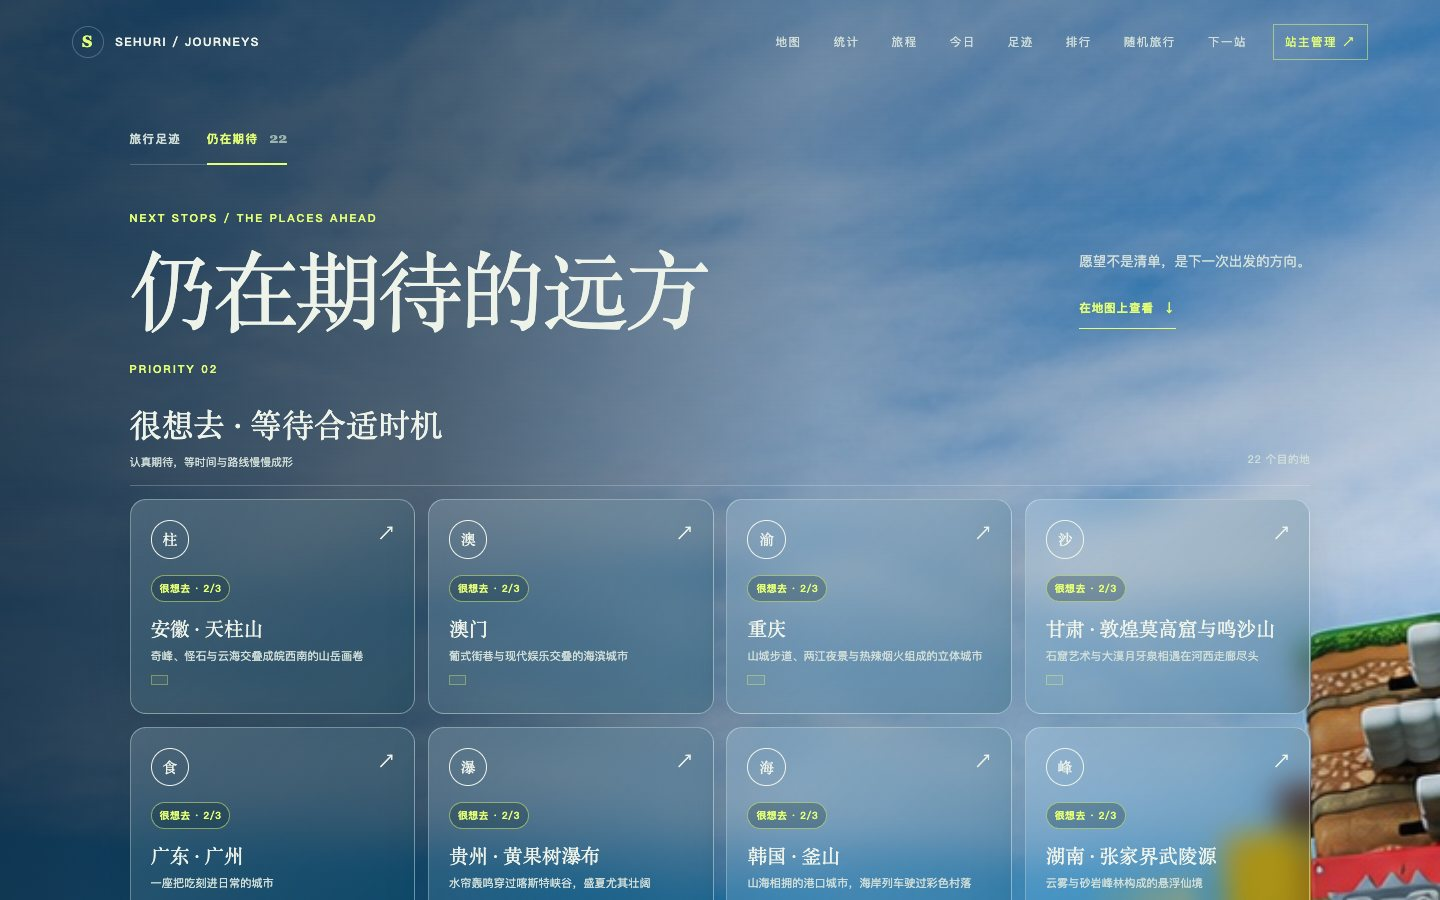
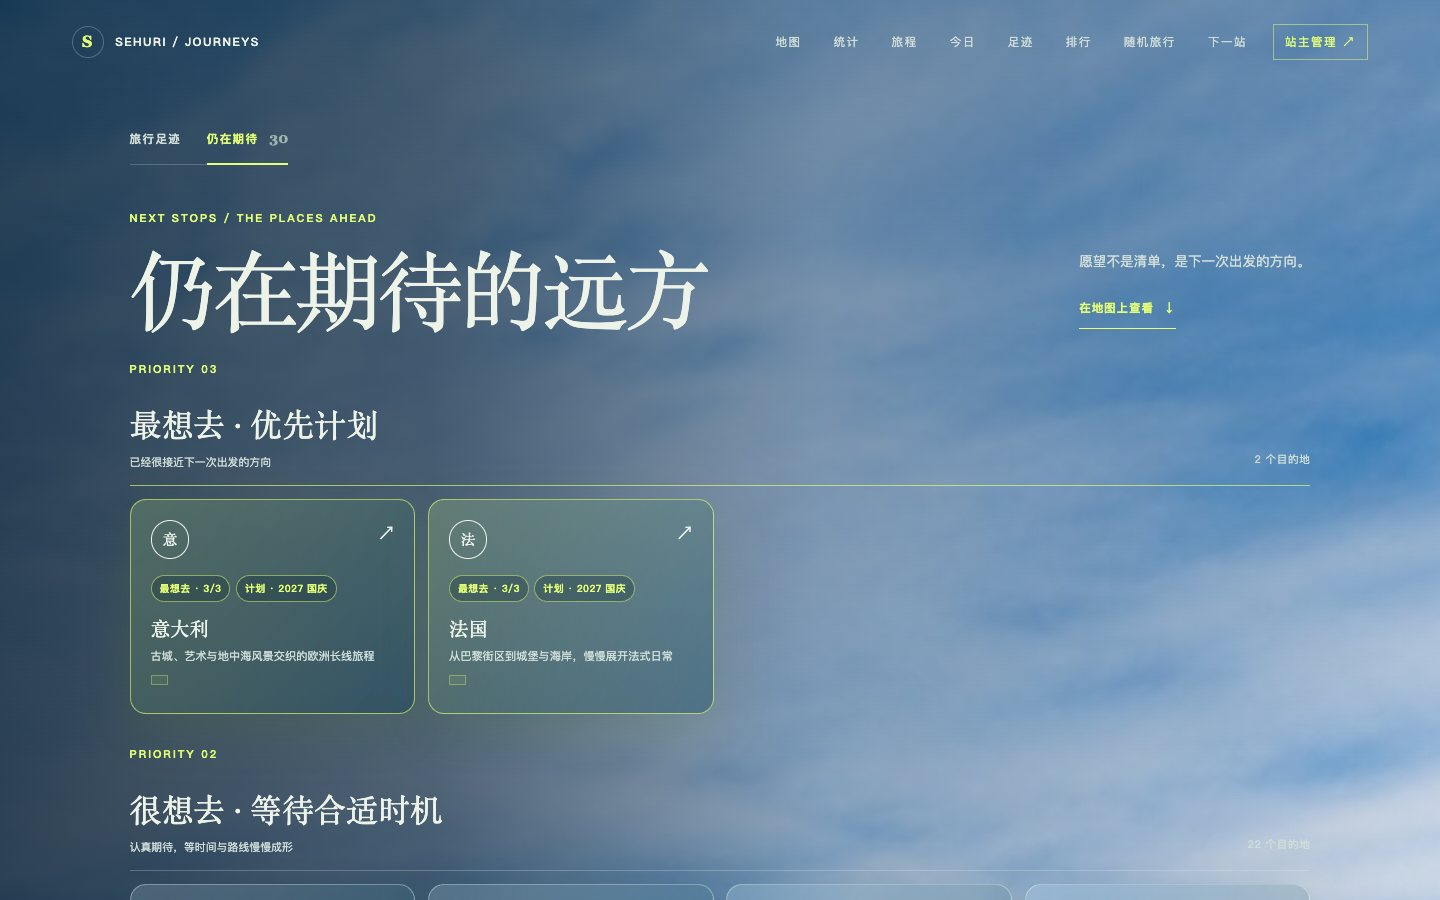
feat: expand graded travel wishlist

diff --git a/assets/data.js b/assets/data.js
@@ -83,6 +83,8 @@ window.TRAVEL_DATA = {
     }
   ],
   wishlist: [
+    { icon:"意", name:"意大利", desc:"古城、艺术与地中海风景交织的欧洲长线旅程", guide:"计划 2027 年国庆出发。建议安排 8—10 天，以罗马、佛罗伦萨和威尼斯组成主线；若与法国连游，应提前比较跨境航班和高速列车，并尽早预约热门博物馆与历史遗址。", plannedTime:"2027 国庆", priorityLevel:3 },
+    { icon:"法", name:"法国", desc:"从巴黎街区到城堡与海岸，慢慢展开法式日常", guide:"计划 2027 年国庆出发。建议至少安排 6—8 天，以巴黎为核心，再根据节奏选择卢瓦尔河谷、诺曼底或南法。跨城市移动较多时不要排得太满，热门景点与城际交通建议提前预订。", plannedTime:"2027 国庆", priorityLevel:3 },
     { icon:"火", name:"印度尼西亚 · 布罗莫火山与雅加达", desc:"从爪哇火山日出，到首都街巷的热带旅程", guide:"建议安排 6—8 天：先在雅加达用 2 天感受老城、国家纪念塔与多元饮食，再飞往泗水或玛琅，预留 2—3 天前往布罗莫火山。火山日出通常需要凌晨出发，山口温差大且火山灰较多，建议准备保暖外套、口罩和防滑鞋，并提前关注当地火山活动及景区开放信息。" },
     { icon:"狮", name:"新加坡", desc:"花园城市与多元文化交汇的热带岛国", guide:"建议安排 4—5 天，串联滨海湾花园、鱼尾狮公园、牛车水、小印度与圣淘沙。全年炎热多雨，轻便衣物之外也记得准备雨具；夜景和熟食中心都值得专门留出时间。" },
     { icon:"山", name:"新疆 · 伊犁与赛里木湖", desc:"天山脚下的塞外江南，大西洋最后一滴眼泪", guide:"6—8 月草原最盛，建议用 5—7 天串联赛里木湖、果子沟、那拉提与喀拉峻。环湖自驾约 90 公里，清晨和日落最值得留给湖边。" },
@@ -104,6 +106,12 @@ window.TRAVEL_DATA = {
     { icon:"雪", name:"四川阿坝 · 萨武神山", desc:"适合新手入门体验的川西雪山，云海与日照金山相伴", guide:"建议安排 2—3 天，从成都前往阿坝州小金县。即使是入门线路也属于高海拔户外活动，应选择当地正规向导，按要求报备并准备保暖、防滑和高原装备；身体不适或天气突变时及时下撤。" },
     { icon:"漠", name:"青海 · 黑独山", desc:"黑色山体与荒漠光影构成近乎异星的西北地貌", guide:"通常以茫崖或冷湖周边作为行程节点，建议与青甘大环线统筹安排。区域偏远、补给有限，不要驶入未开放地带，并提前确认当地通行和保护要求。" },
     { icon:"沙", name:"甘肃 · 敦煌莫高窟与鸣沙山", desc:"石窟艺术与大漠月牙泉相遇在河西走廊尽头", guide:"建议安排 3—4 天。莫高窟需提前预约并按预约场次参观，鸣沙山可留给傍晚；若加入阳关、玉门关和雅丹，再增加一天会更从容。" },
-    { icon:"峨", name:"四川 · 峨眉山", desc:"云海、古寺与金顶日出构成层层递进的登山旅程", guide:"建议安排 2—3 天，可从报国寺逐步上山，或结合景区交通缩短步行。山脚与金顶温差明显，雨雾天气注意防滑并提前确认交通运行情况。" }
+    { icon:"峨", name:"四川 · 峨眉山", desc:"云海、古寺与金顶日出构成层层递进的登山旅程", guide:"建议安排 2—3 天，可从报国寺逐步上山，或结合景区交通缩短步行。山脚与金顶温差明显，雨雾天气注意防滑并提前确认交通运行情况。" },
+    { icon:"皖", name:"宣城 · 皖南川藏线", desc:"山路、竹海与皖南村落串起一段秋日自驾", guide:"计划 2026 年 10 月或 11 月出发，建议安排 2—3 天，从宁国青龙乡一带进入线路，串联储家滩、方塘、板桥和桃岭公路。山区弯道多，雨雾与落叶季更要控制车速，并提前确认临时交通管制。", plannedTime:"2026 年 10 月或 11 月", priorityLevel:1 },
+    { icon:"津", name:"天津", desc:"海河夜色、近代建筑与市井早点共同构成的北方城市", guide:"建议安排 2—3 天，沿海河串联五大道、意式风情区、古文化街与天津之眼，再专门留一个早晨体验煎饼果子、锅巴菜等本地早点。", priorityLevel:1 },
+    { icon:"桂", name:"桂林", desc:"漓江穿过喀斯特峰林，山水在船行与骑行之间展开", guide:"建议安排 4—5 天，桂林市区作为进出节点，把更多时间留给阳朔、漓江和遇龙河。丰水期景色更灵动，雨季需关注游船、竹筏和户外线路调整。", priorityLevel:1 },
+    { icon:"徐", name:"徐州", desc:"两汉遗迹、云龙山水与苏北烟火交汇的古城", guide:"建议安排 2—3 天，串联徐州博物馆、汉文化景区、云龙山和云龙湖。城市景点分布较开，博物馆及热门展馆出发前确认预约要求。", priorityLevel:1 },
+    { icon:"汴", name:"开封", desc:"城墙、夜市与宋韵街巷仍在古都日常里延续", guide:"建议安排 2—3 天，清明上河园、开封府、大相国寺和鼓楼夜市可以组合成一条宋韵路线。节假日核心景区客流大，住宿与演出场次宜提前安排。", priorityLevel:1 },
+    { icon:"沂", name:"临沂", desc:"沂蒙山水、历史文化与鲁南烟火组成的周末目的地", guide:"建议安排 2—3 天，市区可结合临沂市博物馆与书法广场，想看自然风景则为沂蒙山、地下大峡谷等郊区线路单独留出一天，并注意景点间车程。", priorityLevel:1 }
   ]
 };

diff --git a/assets/map-engine.js b/assets/map-engine.js
@@ -5,6 +5,8 @@
   const AXIS = 6378245;
   const ECCENTRICITY = 0.006693421622965943;
   const WISHLIST_MAP_LOCATIONS = Object.freeze({
+    "意大利": { country: "意大利", coord: [12.50, 41.90], label: "意大利" },
+    "法国": { country: "法国", coord: [2.35, 48.86], label: "法国" },
     "印度尼西亚 · 布罗莫火山与雅加达": { country: "印度尼西亚", coord: [112.95, -7.94], label: "布罗莫火山" },
     "新加坡": { country: "新加坡", coord: [103.82, 1.35], label: "新加坡" },
     "新疆 · 伊犁与赛里木湖": { country: "中国", coord: [81.18, 44.61], label: "赛里木湖" },
@@ -26,7 +28,13 @@
     "四川阿坝 · 萨武神山": { country: "中国", coord: [102.36, 31.00], label: "萨武神山" },
     "青海 · 黑独山": { country: "中国", coord: [93.28, 38.50], label: "黑独山" },
     "甘肃 · 敦煌莫高窟与鸣沙山": { country: "中国", coord: [94.66, 40.14], label: "敦煌" },
-    "四川 · 峨眉山": { country: "中国", coord: [103.33, 29.52], label: "峨眉山" }
+    "四川 · 峨眉山": { country: "中国", coord: [103.33, 29.52], label: "峨眉山" },
+    "宣城 · 皖南川藏线": { country: "中国", coord: [118.69, 30.63], label: "皖南川藏线" },
+    "天津": { country: "中国", coord: [117.20, 39.13], label: "天津" },
+    "桂林": { country: "中国", coord: [110.29, 25.27], label: "桂林" },
+    "徐州": { country: "中国", coord: [117.28, 34.20], label: "徐州" },
+    "开封": { country: "中国", coord: [114.31, 34.80], label: "开封" },
+    "临沂": { country: "中国", coord: [118.36, 35.10], label: "临沂" }
   });
 
   function outsideChina(lng, lat) {

diff --git a/index.html b/index.html
@@ -450,17 +450,17 @@
   </div>
 
   <script src="https://cdn.jsdelivr.net/npm/@supabase/supabase-js@2.57.4/dist/umd/supabase.min.js"></script>
-  <script src="./assets/data.js?v=20260913.1"></script>
+  <script src="./assets/data.js?v=20260916.1"></script>
   <script src="./assets/photos.js"></script>
   <script src="./assets/supabase-config.js"></script>
   <script src="./assets/amap-map-config.js?v=20260907.1"></script>
-  <script src="./assets/map-engine.js?v=20260910.1"></script>
+  <script src="./assets/map-engine.js?v=20260916.1"></script>
   <script src="./assets/visit-engine.js?v=20260911.1"></script>
   <script src="./assets/journey-engine.js?v=20260913.1"></script>
   <script src="./assets/memory-engine.js?v=20260911.1"></script>
   <script src="./assets/stats-engine.js?v=20260911.2"></script>
   <script src="./assets/wishlist-engine.js?v=20260915.1"></script>
-  <script src="./assets/content.js?v=20260915.1"></script>
+  <script src="./assets/content.js?v=20260916.1"></script>
   <script src="./assets/community.js?v=20260901.1"></script>
   <script src="./assets/app.js?v=20260915.1"></script>
 </body>

diff --git a/journey.html b/journey.html
@@ -144,15 +144,15 @@
   <footer>© <span id="journey-current-year"></span> Sehuri · 每一趟出发，都值得拥有完整档案</footer>
 
   <script src="https://cdn.jsdelivr.net/npm/@supabase/supabase-js@2.57.4/dist/umd/supabase.min.js"></script>
-  <script src="./assets/data.js?v=20260913.1"></script>
+  <script src="./assets/data.js?v=20260916.1"></script>
   <script src="./assets/photos.js"></script>
   <script src="./assets/supabase-config.js"></script>
   <script src="./assets/visit-engine.js?v=20260911.1"></script>
   <script src="./assets/journey-engine.js?v=20260913.1"></script>
-  <script src="./assets/map-engine.js?v=20260910.1"></script>
+  <script src="./assets/map-engine.js?v=20260916.1"></script>
   <script src="./assets/amap-map-config.js?v=20260907.1"></script>
   <script src="./assets/route-replay-engine.js?v=20260913.1"></script>
-  <script src="./assets/content.js?v=20260911.3"></script>
+  <script src="./assets/content.js?v=20260916.1"></script>
   <script src="./assets/journey.js?v=20260914.1"></script>
 </body>
 </html>

diff --git a/discover.html b/discover.html
@@ -52,7 +52,7 @@
     <noscript>请启用 JavaScript 使用随机推荐；现有旅行地图不受影响。</noscript>
   </main>
   <script src="./assets/discover-data.js"></script><script src="./assets/discover-engine.js?v=20260910.1"></script><script src="./assets/discover-config.js"></script>
-  <script src="./assets/data.js"></script><script src="./assets/discover.js?v=20260910.1"></script>
+  <script src="./assets/data.js?v=20260916.1"></script><script src="./assets/discover.js?v=20260910.1"></script>
   <script src="https://unpkg.com/leaflet@1.9.4/dist/leaflet.js" defer></script>
 </body>
 </html>

diff --git a/admin.html b/admin.html
@@ -247,7 +247,7 @@
   </main>
 
   <script src="https://cdn.jsdelivr.net/npm/@supabase/supabase-js@2.57.4/dist/umd/supabase.min.js"></script>
-  <script src="./assets/data.js?v=20260913.1"></script>
+  <script src="./assets/data.js?v=20260916.1"></script>
   <script src="./assets/photos.js"></script>
   <script src="./assets/supabase-config.js"></script>
   <script src="./assets/journey-engine.js?v=20260913.1"></script>

diff --git a/assets/content.js b/assets/content.js
@@ -186,7 +186,7 @@
     }
   }
 
-  state.wishlist = mergeLocalWishlist(state.wishlist);
+  state.wishlist = mergeLocalWishlist(mergeWishlist([]));
   const ready = load();
   window.TRAVEL_CONTENT = {
     ready,

diff --git a/README.md b/README.md
@@ -76,7 +76,7 @@
 - 仅中国大陆坐标在地图层转换为 GCJ-02；日本、韩国、台湾、香港和澳门保持原始 WGS-84 坐标。高德安全密钥由 Supabase 代理保护，启用步骤见 [AMAP_MAP_SETUP.md](./AMAP_MAP_SETUP.md)。
 - 国内足迹按市级行政区填色，大阪、京都、东京和镰仓以带名称的城市光点呈现
 - 点击已到访市域或城市光点即可打开对应旅行记忆
-- 切换到“仍在期待”时，地图同步改为展示 22 个愿望目的地，点击光点可查看旅行攻略
+- 切换到“仍在期待”时，地图同步改为展示 30 个愿望目的地，点击光点可查看旅行攻略
 - 高德资源不可用时会明确提示，下方时间线仍可继续浏览
 
 ### 旅行数据统计
@@ -166,7 +166,7 @@
 - 展示目的地特色、计划时间与简要旅行建议
 - 可跳转至常用旅行平台继续查看攻略
 
-愿望目的地包括印度尼西亚的布罗莫火山与雅加达、新加坡、伊犁与赛里木湖、台湾本岛、大理丽江香格里拉、川西、乌兰布统、广州、澳门、成都、重庆、张家界、恒山、雁荡山、釜山、长白山、黄果树瀑布、天柱山、萨武神山、黑独山、敦煌与峨眉山。
+当前愿望清单共 30 个目的地，包括意大利、法国、印度尼西亚、新加坡，以及伊犁、皖南川藏线、桂林、天津、敦煌、峨眉山等国内外旅行方向。
 
 ### 响应式体验
 
